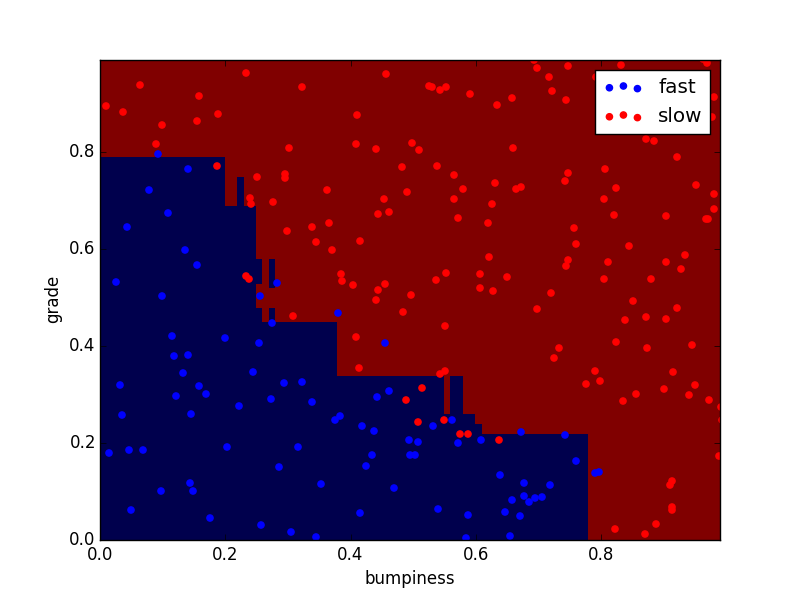
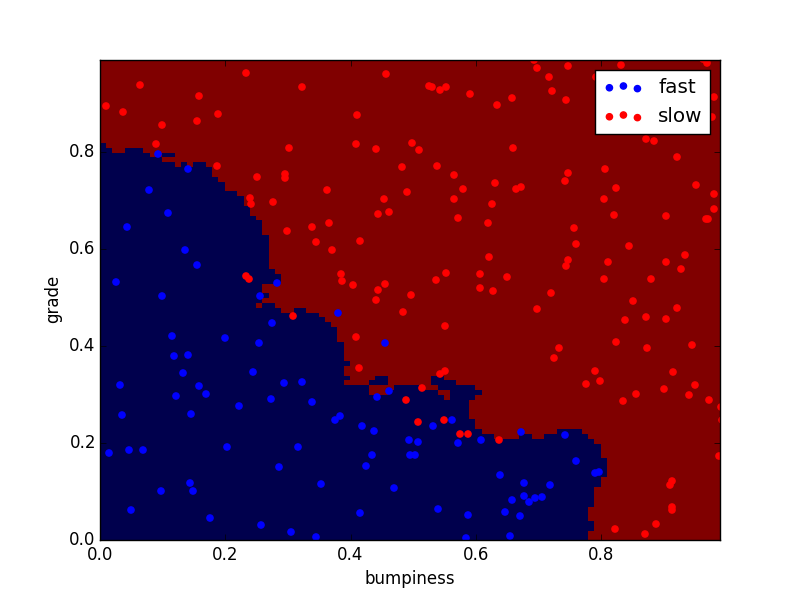
Mini-project04, Accuracy 0.94 at KNN(p=4, n=10, leaf size 50, ball tree, weight = distance)

diff --git a/choose_your_own/your_algorithm.py b/choose_your_own/your_algorithm.py
@@ -36,9 +36,9 @@ plt.show()
 from sklearn.neighbors import KNeighborsClassifier
 from sklearn.ensemble import RandomForestClassifier
 from sklearn.ensemble import AdaBoostClassifier
-#clf = KNeighborsClassifier(p=4,n_neighbors =10,leaf_size = 50,algorithm='ball_tree',weights='distance')
-#clf = RandomForestClassifier(n_estimators=100)
-clf = AdaBoostClassifier(n_estimators=100)
+clf = KNeighborsClassifier(p=4,n_neighbors =10,leaf_size = 50,algorithm='ball_tree',weights='distance')
+#clf = RandomForestClassifier(n_estimators=100) 0.916
+#clf = AdaBoostClassifier(n_estimators=100) 0.924
 clf.fit (features_train, labels_train)
 
 from sklearn.metrics import accuracy_score
